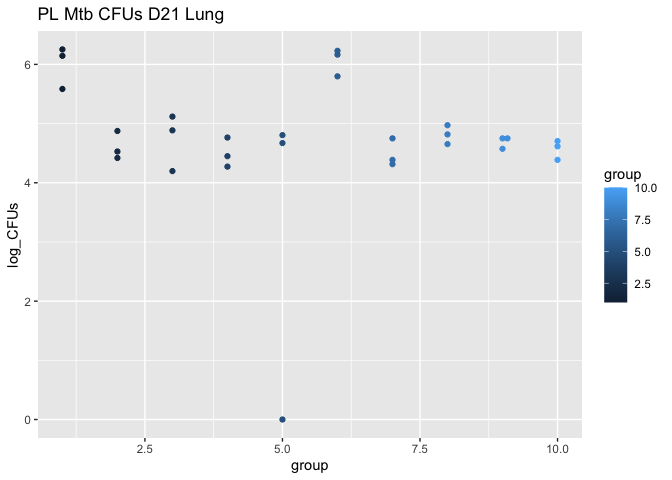
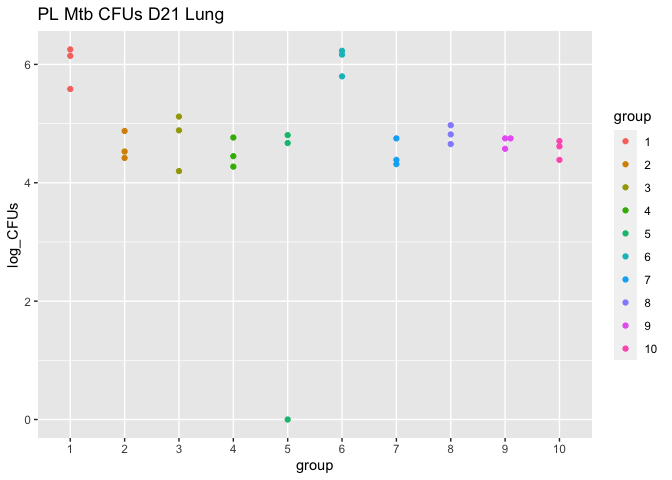
add different options for plotting results

diff --git a/README.md b/README.md
@@ -72,7 +72,6 @@ CFU_raw_formatted <- tidy_CFU(CFU_data)
 #> Warning: Problem with `mutate()` input `CFUs`.
 #> ℹ NAs introduced by coercion
 #> ℹ Input `CFUs` is `as.numeric(CFUs)`.
-#> Warning in mask$eval_all_mutate(dots[[i]]): NAs introduced by coercion
 head(CFU_raw_formatted)
 #> # A tibble: 6 x 5
 #>   group replicate organ  dilution  CFUs
@@ -83,6 +82,26 @@ head(CFU_raw_formatted)
 #> 4     3 C         Spleen        0     0
 #> 5     4 A         Spleen        0     0
 #> 6     4 B         Spleen        0     0
+
+CFU_raw_formatted %>%
+  calculate_cfu(dilution_factor = 5, 
+                            resuspend_volume_ml = 0.5, 
+                            volume_plated_uL = 100, 
+                            percent = 0.5, "dilution", "CFUs")
+#> # A tibble: 181 x 8
+#>    group replicate organ  dilution  CFUs calculated_CFU whole_CFUs log_CFUs
+#>    <dbl> <chr>     <chr>     <dbl> <dbl>          <dbl>      <dbl>    <dbl>
+#>  1     2 A         Spleen        0    26            130        260     2.41
+#>  2     2 C         Spleen        0     0              0          0     0   
+#>  3     3 A         Spleen        0     0              0          0     0   
+#>  4     3 C         Spleen        0     0              0          0     0   
+#>  5     4 A         Spleen        0     0              0          0     0   
+#>  6     4 B         Spleen        0     0              0          0     0   
+#>  7     4 C         Spleen        0     0              0          0     0   
+#>  8     5 A         Spleen        0     0              0          0     0   
+#>  9     5 B         Spleen        0     0              0          0     0   
+#> 10     5 C         Spleen        0     0              0          0     0   
+#> # … with 171 more rows
 ```
 
 The function `pick_one_dilution` sifts through all of the data for the
@@ -201,7 +220,6 @@ analyzed_CFUs_wo_pick_one <- read_xlsx(example_file_address) %>%
 #> Warning: Problem with `mutate()` input `CFUs`.
 #> ℹ NAs introduced by coercion
 #> ℹ Input `CFUs` is `as.numeric(CFUs)`.
-#> Warning in mask$eval_all_mutate(dots[[i]]): NAs introduced by coercion
 
 ggplot(analyzed_CFUs_wo_pick_one, aes(dilution, log_CFUs, color = group_replicate)) +
   geom_point() +
@@ -229,7 +247,8 @@ analyzed_CFUs <- read_xlsx(example_file_address, sheet = "Raw Counts") %>%
   calculate_cfu(dilution_factor = 5, 
                 resuspend_volume = 0.5,
                 volume_plated_uL = 100,
-                percent = 1/3, "dilution", "CFUs")
+                percent = 1/3, "dilution", "CFUs") %>%
+  mutate(group = as.factor(group))
 
 # the CFUs can then be plotted
 ggplot(analyzed_CFUs, aes(group, log_CFUs, color = group)) +
@@ -242,17 +261,141 @@ ggplot(analyzed_CFUs, aes(group, log_CFUs, color = group)) +
 Calculate statistical significance with ANOVA and Tukey HSD
 
 ``` r
-sig <- analyzed_CFUs %>%
+# calculate ANOVA and tukey HSD stat signif
+sig2 <- analyzed_CFUs %>%
   ungroup() %>%
   select(group, log_CFUs) %>%
-    mutate(group = as.factor(group)) %>%
-  rstatix::tukey_hsd(log_CFUs ~ group) %>%
-  rstatix::add_xy_position(x = "group")
+  aov(log_CFUs ~ group, data = .) %>%
+  TukeyHSD() %>%
+  broom::tidy() %>%
+  separate(col = "contrast", c("group1", "group2"), sep = "-") %>%
+  filter(adj.p.value < 0.05) %>%
+  mutate(adj.p.value   = round(adj.p.value, 3)) 
 
-ggline(x = "group", y = "log_CFUs", color = "group", alpha = 0.5, data = analyzed_CFUs,
-       font.label = list(size = 30, face = "plain")) +
-  stat_pvalue_manual(data = sig, hide.ns = TRUE) +
+# calculates where the p-value bar will first show on the plots
+ypos <- c(max(max(abs(sig2$conf.low)), max(abs(sig2$conf.high))))
+
+# plot the results
+ggscatter(x = "group", y = "log_CFUs", color = "group", data = analyzed_CFUs) +
+  stat_pvalue_manual(data = sig2, label = "adj.p.value", 
+                     hide.ns = TRUE, y.position = ypos, step.increase = 0.1) +
   ggtitle("PL Mtb CFUs D21 Lung")
 ```
 
 <img src="man/figures/README-unnamed-chunk-11-1.png" width="100%" />
+
+Test different statistical analyses
+
+``` r
+# one-tailed t.test - have to choose a mu value
+# have to choose "greater or "less" and a "mu"
+t_sig <-analyzed_CFUs %>%
+  ungroup() %>%
+  t_test(log_CFUs ~ group, mu = 2) %>% #   adjust_pvalue(method = "BH") %>%
+  add_significance() %>%
+  rstatix::add_xy_position(x = "group")
+  
+  
+ggline(x = "group", y = "log_CFUs", color = "group", alpha = 0.5, 
+       data = analyzed_CFUs,
+       font.label = list(size = 30, face = "plain")) +
+      stat_pvalue_manual(data = t_sig, hide.ns = TRUE) +
+    ggtitle(paste("T-test"))
+```
+
+<img src="man/figures/README-unnamed-chunk-12-1.png" width="100%" />
+
+``` r
+
+# two way anova - can choose additional factors that play a role
+```
+
+Different plots
+
+``` r
+# line with mean_se
+ggline(x = "group", y = "log_CFUs", color = "group", alpha = 0.5, data = analyzed_CFUs,
+       font.label = list(size = 30, face = "plain"), add = c("mean_se")) +
+  stat_pvalue_manual(data = sig2, label = "adj.p.value", 
+                     hide.ns = TRUE, y.position = ypos, step.increase = 0.1) +
+  ggtitle("PL Mtb CFUs D21 Lung")
+#> geom_path: Each group consists of only one observation. Do you need to adjust
+#> the group aesthetic?
+```
+
+<img src="man/figures/README-unnamed-chunk-13-1.png" width="100%" />
+
+``` r
+
+# bar plot
+ggbarplot(x = "group", y = "log_CFUs", fill = "group", data = analyzed_CFUs,
+       font.label = list(size = 30, face = "plain"), add = c("mean_se")) +
+  stat_pvalue_manual(data = sig2, label = "adj.p.value", 
+                     hide.ns = TRUE, y.position = ypos, step.increase = 0.1) +
+  ggtitle("PL Mtb CFUs D21 Lung")
+```
+
+<img src="man/figures/README-unnamed-chunk-13-2.png" width="100%" />
+
+``` r
+  
+analyzed_CFUs <- analyzed_CFUs %>%
+  mutate(group = as.factor(group))
+
+# scatter plot
+ggscatter(x = "group", y = "log_CFUs", color = "group", data = analyzed_CFUs) +
+  stat_pvalue_manual(data = sig2, label = "adj.p.value", 
+                     hide.ns = TRUE, y.position = ypos, step.increase = 0.1) +
+  ggtitle("PL Mtb CFUs D21 Lung")
+```
+
+<img src="man/figures/README-unnamed-chunk-13-3.png" width="100%" />
+
+## Alternative use calculating average of all CFUs
+
+If you want to see the consistancy of the plating across the dilutions,
+you can skip the `pick_one_dilution` function and calcuate the average
+CFUs for each group/replicate. Typically this is done by only
+calculating CFUs for which there is a count (removing CFU rows that are
+either TNTC or 0).
+
+**Note: The way that I’m doing this now doesn’t account for the fact
+that if a group/replicate has 0 CFUs across the dataset, it will just be
+removed since I’m filtering CFUs \!= 0**
+
+``` r
+analyzed_CFUs_wo_pick_one <- read_xlsx(example_file_address) %>%
+  tidy_CFU() %>%
+  filter(organ == "Spleen") %>%
+  calculate_cfu(5, 0.5, 100, .5, "dilution", "CFUs") %>%
+  filter(CFUs != 0) %>%
+  group_by(group, replicate) %>%
+  mutate(average_log_CFUs = mean(log_CFUs)) 
+#> Warning: Problem with `mutate()` input `CFUs`.
+#> ℹ NAs introduced by coercion
+#> ℹ Input `CFUs` is `as.numeric(CFUs)`.
+```
+
+Group Names
+
+``` r
+group <- c(1:10)
+route <- c(rep("I.P.", 5), rep("Oral", 5))
+drug <- c(rep(c("control", "control", "Drug 1", "Drug 2", "Drug 1 + Drug 2"), 2))
+
+vaccination <- c(rep(c("PBS", rep("BCG", 4)), 2))
+
+group_df <- data.frame(group, route, drug, vaccination)
+group_df
+#>    group route            drug vaccination
+#> 1      1  I.P.         control         PBS
+#> 2      2  I.P.         control         BCG
+#> 3      3  I.P.          Drug 1         BCG
+#> 4      4  I.P.          Drug 2         BCG
+#> 5      5  I.P. Drug 1 + Drug 2         BCG
+#> 6      6  Oral         control         PBS
+#> 7      7  Oral         control         BCG
+#> 8      8  Oral          Drug 1         BCG
+#> 9      9  Oral          Drug 2         BCG
+#> 10    10  Oral Drug 1 + Drug 2         BCG
+```
